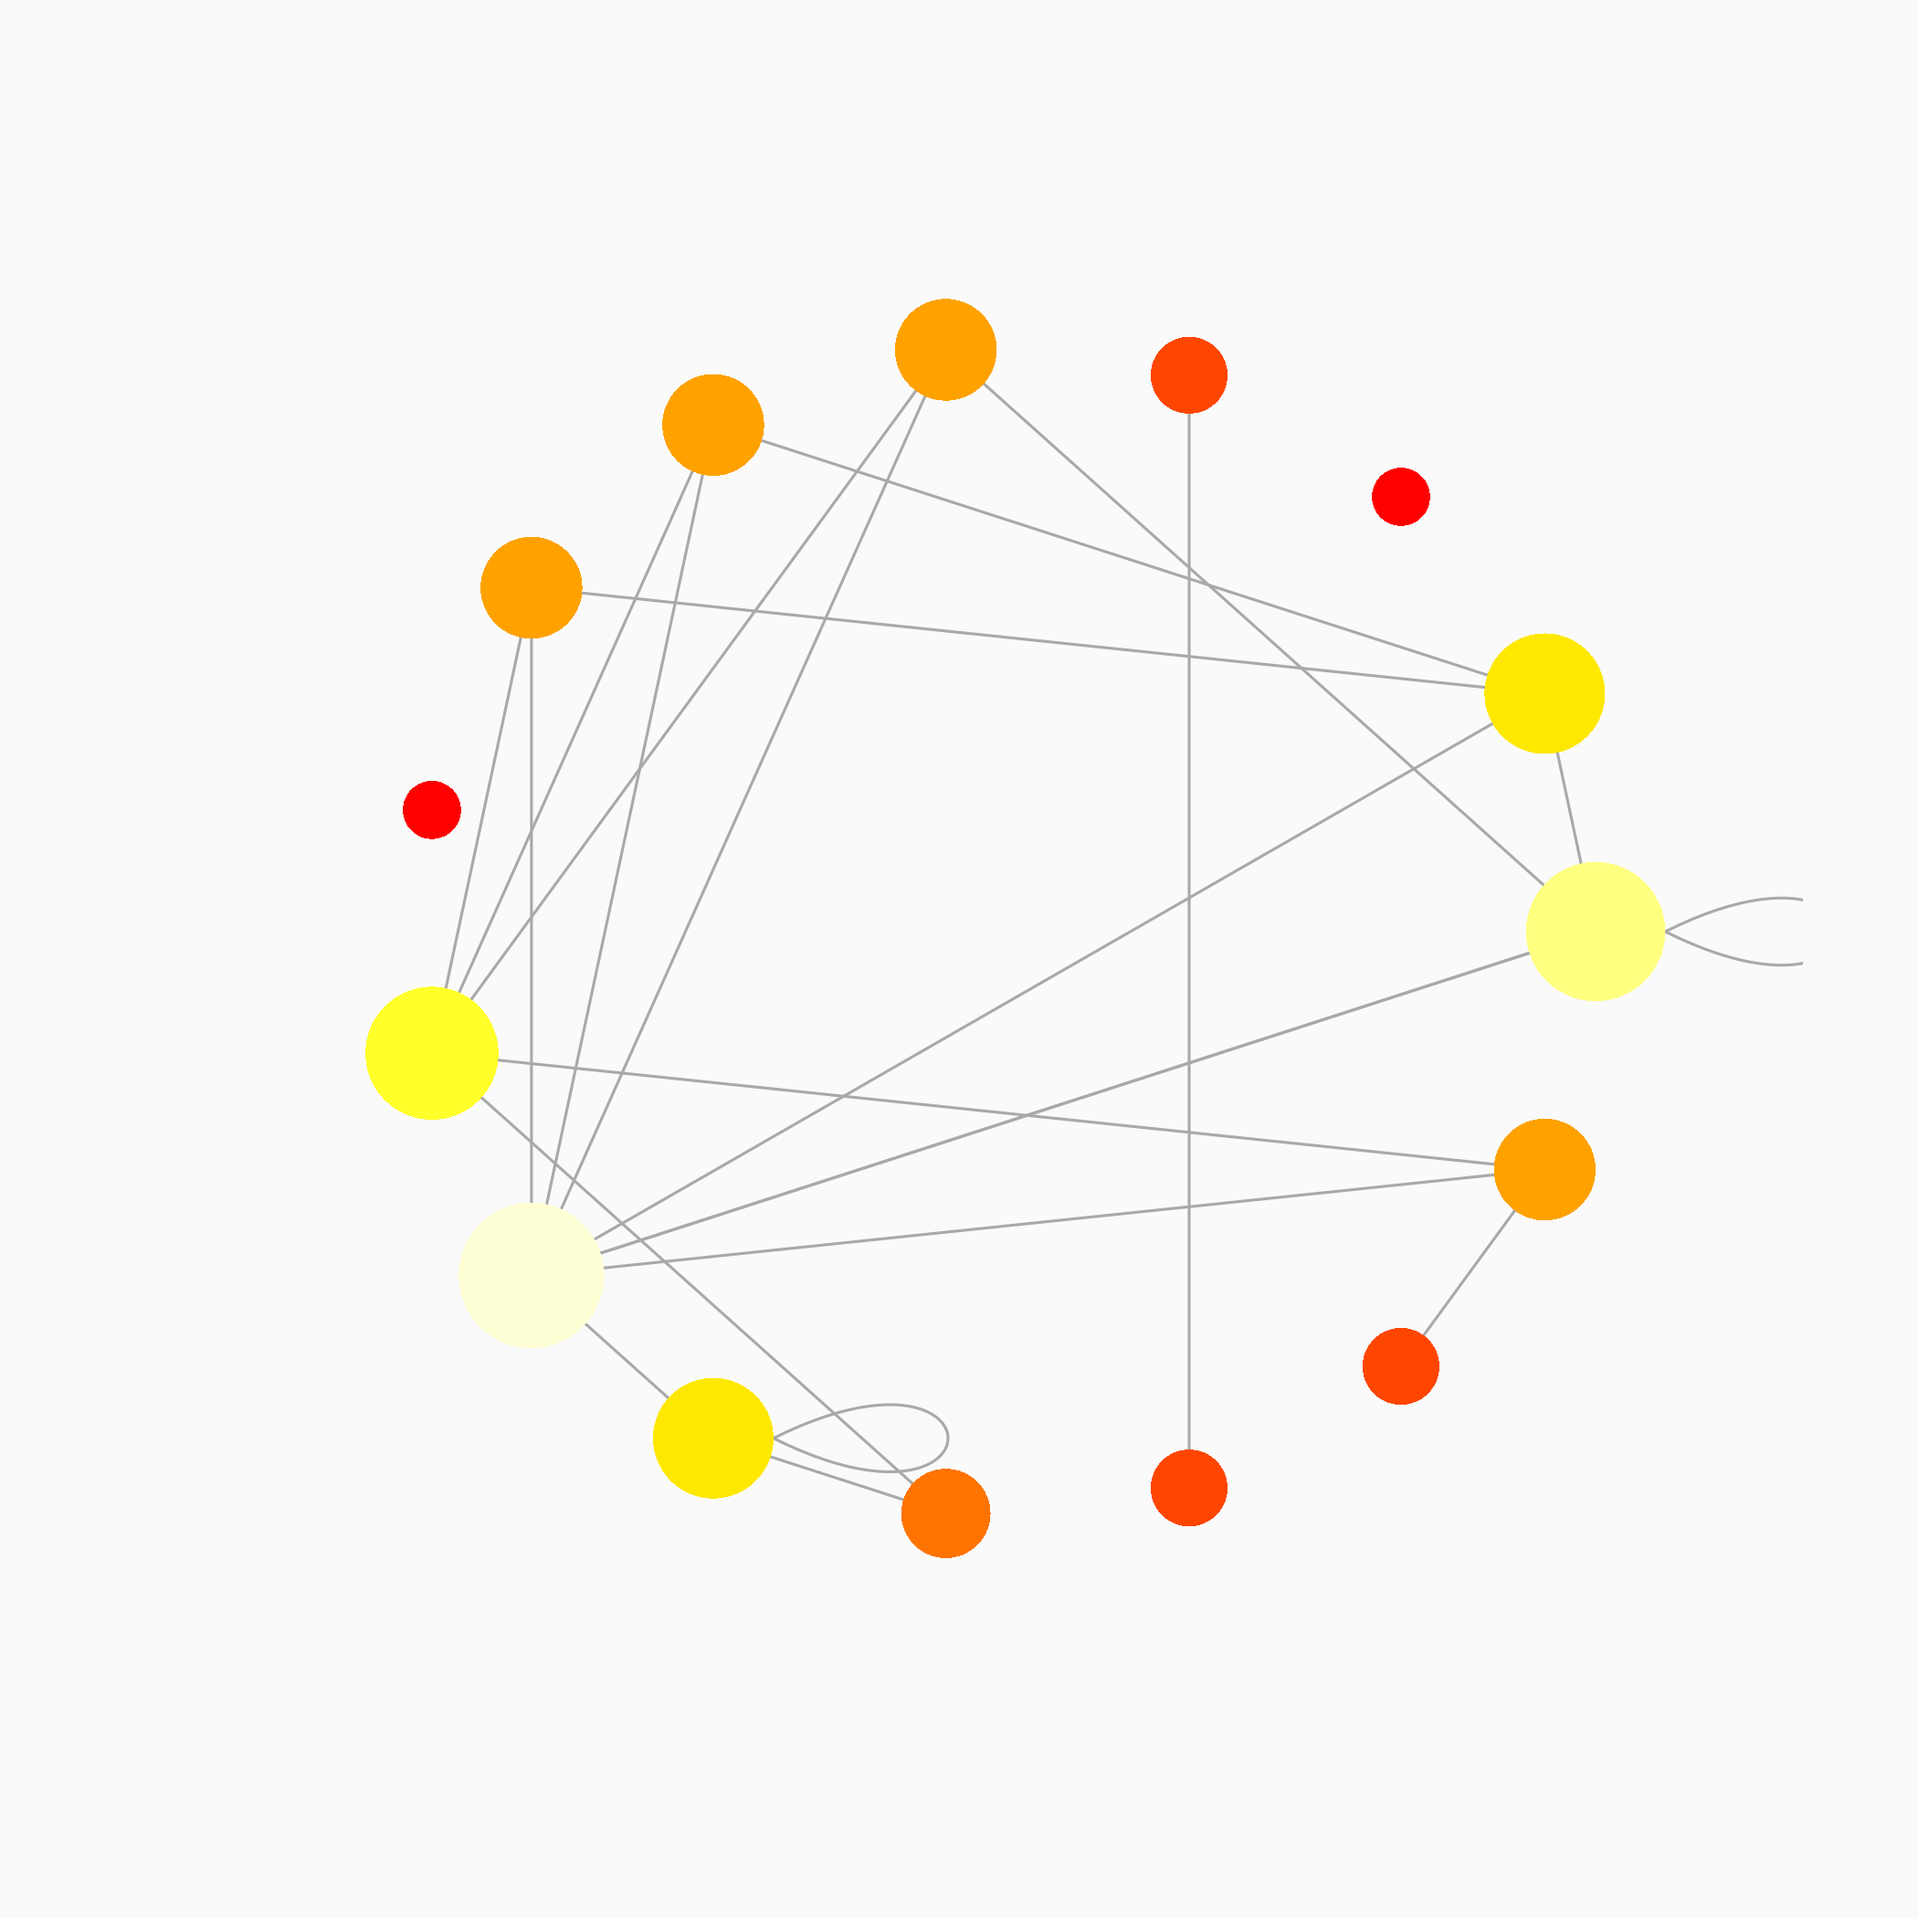
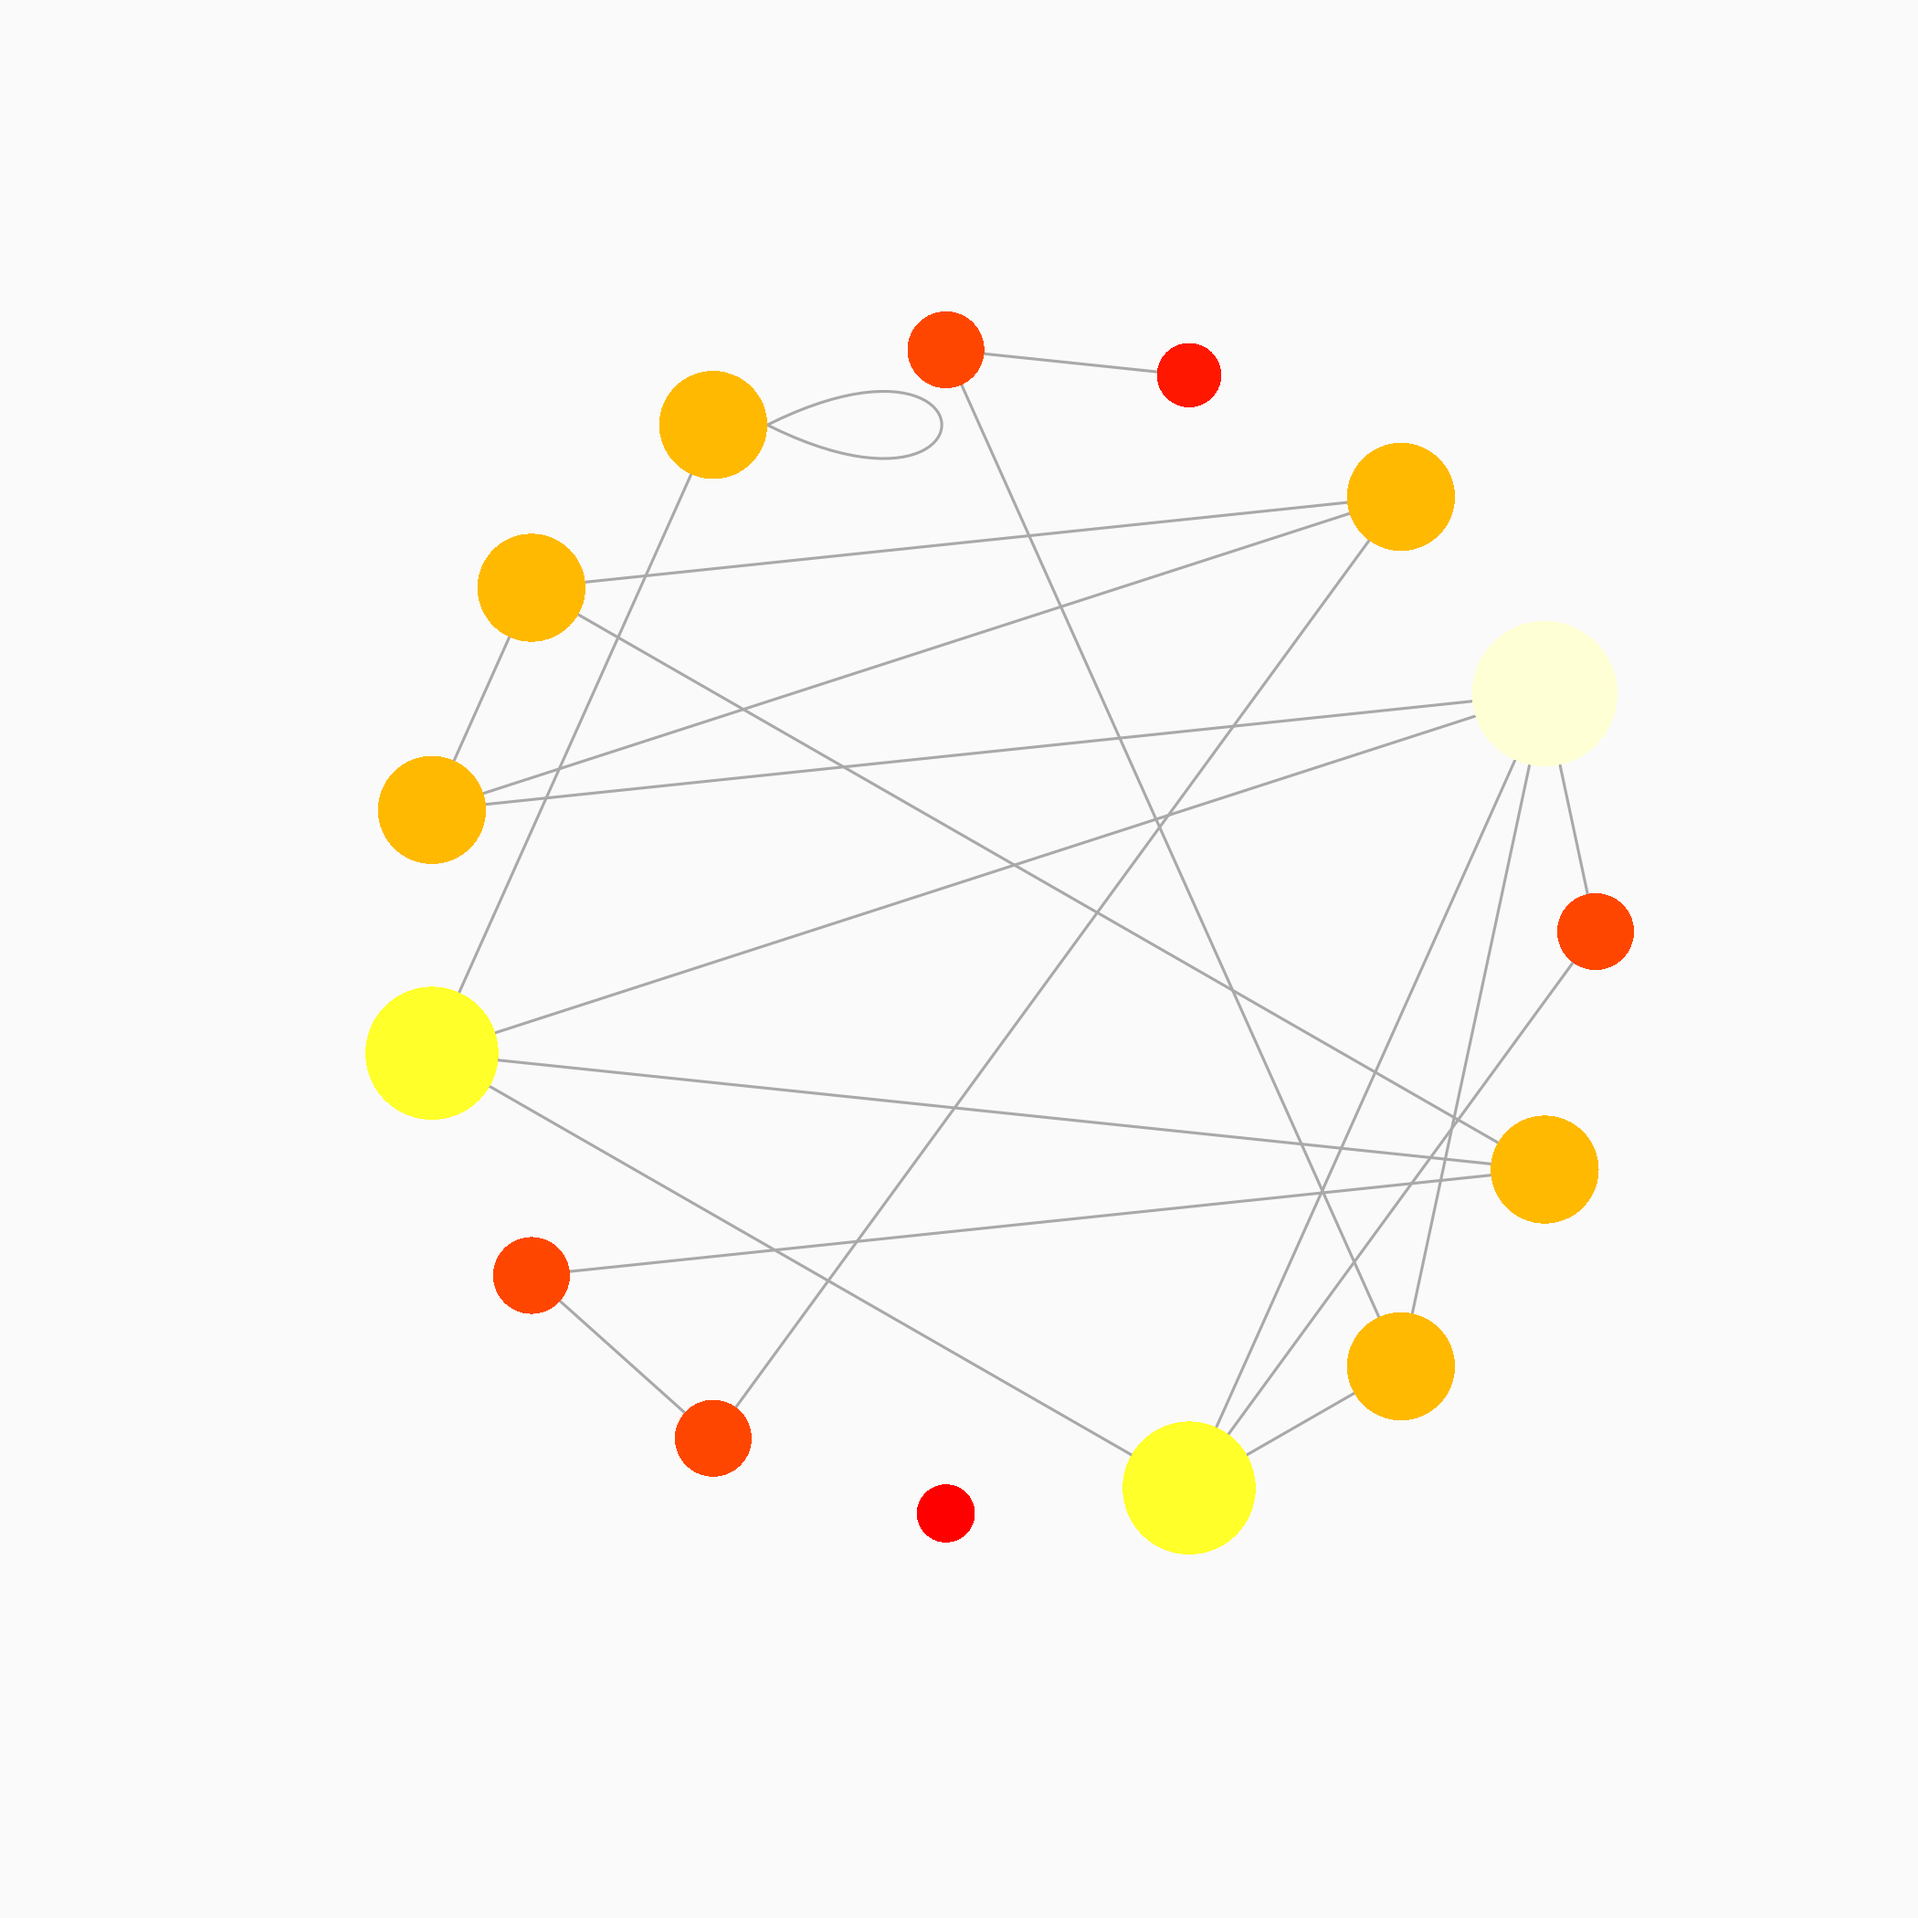
Deploy EcoNumUdS/BIO500 to github.com/EcoNumUdS/BIO500.git:gh-pages

diff --git a/bloc3/index.html b/bloc3/index.html
@@ -646,7 +646,7 @@ sum(L)
 ```
 
 ```
-## [1] 22
+## [1] 20
 ```
 
 ```r
@@ -790,7 +790,7 @@ modularity(wtc)
 ```
 
 ```
-## [1] 0.2438017
+## [1] 0.40875
 ```
 
 ---
@@ -807,37 +807,37 @@ distances(g)
 
 ```
 ##       [,1] [,2] [,3] [,4] [,5] [,6] [,7] [,8] [,9] [,10] [,11] [,12] [,13]
-##  [1,]    0    1  Inf  Inf    1    2    2  Inf    2     1     2     3   Inf
-##  [2,]    1    0  Inf  Inf    2    1    1  Inf    2     1     2     3   Inf
-##  [3,]  Inf  Inf    0  Inf  Inf  Inf  Inf  Inf  Inf   Inf   Inf   Inf   Inf
-##  [4,]  Inf  Inf  Inf    0  Inf  Inf  Inf  Inf  Inf   Inf   Inf   Inf     1
-##  [5,]    1    2  Inf  Inf    0    2    2  Inf    1     1     2     2   Inf
-##  [6,]    2    1  Inf  Inf    2    0    2  Inf    1     1     2     2   Inf
-##  [7,]    2    1  Inf  Inf    2    2    0  Inf    1     1     2     2   Inf
-##  [8,]  Inf  Inf  Inf  Inf  Inf  Inf  Inf    0  Inf   Inf   Inf   Inf   Inf
-##  [9,]    2    2  Inf  Inf    1    1    1  Inf    0     2     2     1   Inf
-## [10,]    1    1  Inf  Inf    1    1    1  Inf    2     0     1     2   Inf
-## [11,]    2    2  Inf  Inf    2    2    2  Inf    2     1     0     1   Inf
-## [12,]    3    3  Inf  Inf    2    2    2  Inf    1     2     1     0   Inf
-## [13,]  Inf  Inf  Inf    1  Inf  Inf  Inf  Inf  Inf   Inf   Inf   Inf     0
-## [14,]    3    3  Inf  Inf    3    3    3  Inf    2     2     3     3   Inf
-## [15,]    2    2  Inf  Inf    2    2    2  Inf    1     1     2     2   Inf
+##  [1,]    0    1    3    4    3    3    3    2    2     4     4   Inf     1
+##  [2,]    1    0    2    3    2    2    2    1    1     3     3   Inf     1
+##  [3,]    3    2    0    5    4    4    1    1    3     2     1   Inf     3
+##  [4,]    4    3    5    0    1    5    5    4    4     6     6   Inf     3
+##  [5,]    3    2    4    1    0    4    4    3    3     5     5   Inf     2
+##  [6,]    3    2    4    5    4    0    3    3    1     3     4   Inf     2
+##  [7,]    3    2    1    5    4    3    0    1    2     2     2   Inf     3
+##  [8,]    2    1    1    4    3    3    1    0    2     3     2   Inf     2
+##  [9,]    2    1    3    4    3    1    2    2    0     2     3   Inf     1
+## [10,]    4    3    2    6    5    3    2    3    2     0     1   Inf     3
+## [11,]    4    3    1    6    5    4    2    2    3     1     0   Inf     4
+## [12,]  Inf  Inf  Inf  Inf  Inf  Inf  Inf  Inf  Inf   Inf   Inf     0   Inf
+## [13,]    1    1    3    3    2    2    3    2    1     3     4   Inf     0
+## [14,]    2    1    3    2    1    3    3    2    2     4     4   Inf     1
+## [15,]    3    2    2    5    4    2    1    2    1     1     2   Inf     2
 ##       [,14] [,15]
-##  [1,]     3     2
-##  [2,]     3     2
-##  [3,]   Inf   Inf
-##  [4,]   Inf   Inf
-##  [5,]     3     2
+##  [1,]     2     3
+##  [2,]     1     2
+##  [3,]     3     2
+##  [4,]     2     5
+##  [5,]     1     4
 ##  [6,]     3     2
-##  [7,]     3     2
-##  [8,]   Inf   Inf
+##  [7,]     3     1
+##  [8,]     2     2
 ##  [9,]     2     1
-## [10,]     2     1
-## [11,]     3     2
-## [12,]     3     2
-## [13,]   Inf   Inf
-## [14,]     0     1
-## [15,]     1     0
+## [10,]     4     1
+## [11,]     4     2
+## [12,]   Inf   Inf
+## [13,]     1     2
+## [14,]     0     3
+## [15,]     3     0
 ```
 ]
 
@@ -853,9 +853,9 @@ eigen_centrality(g)$vector
 ```
 
 ```
-##  [1] 8.951943e-01 6.226435e-01 3.614981e-17 2.629180e-17 5.156038e-01
-##  [6] 4.551130e-01 4.551130e-01 3.614981e-17 4.279414e-01 1.000000e+00
-## [11] 3.334570e-01 1.689871e-01 2.008108e-17 7.398285e-02 3.333416e-01
+##  [1] 0.5642805 1.0000000 0.2899125 0.0614233 0.2054401 0.3317412 0.3473951
+##  [8] 0.4895289 0.7778204 0.1540401 0.1327348 0.0000000 0.8873263 0.6257038
+## [15] 0.3824770
 ```
 
 ---

diff --git a/bloc1/index.html b/bloc1/index.html
@@ -1323,8 +1323,8 @@ dbSendQuery(con,"Instructions SQL à envoyer;")
 .font90[
 ```sql
 CREATE TABLE auteurs (
-    author      VARCHAR(50),
-    status      VARCHAR(40),
+    auteur      VARCHAR(50),
+    statut      VARCHAR(40),
     institution VARCHAR(200),
     city        VARCHAR(40),
     country     VARCHAR(40),
@@ -1357,8 +1357,8 @@ CREATE TABLE auteurs (
 .font90[
 ```sql
 CREATE TABLE collaborations (
-    author1     VARCHAR(40),
-    author2     VARCHAR(40),
+    auteur1     VARCHAR(40),
+    auteur2     VARCHAR(40),
     articleID   VARCHAR(20),
     PRIMARY KEY (author1, author2, articleID),
     FOREIGN KEY (author1) REFERENCES auteurs(author),
@@ -1398,8 +1398,8 @@ CREATE TABLE articles (
 ```r
 auteurs_sql &lt;- '
 CREATE TABLE auteurs (
-  author      VARCHAR(50),
-  status      VARCHAR(40),
+  auteur      VARCHAR(50),
+  statut      VARCHAR(40),
   institution VARCHAR(200),
   city        VARCHAR(40),
   country     VARCHAR(40),
